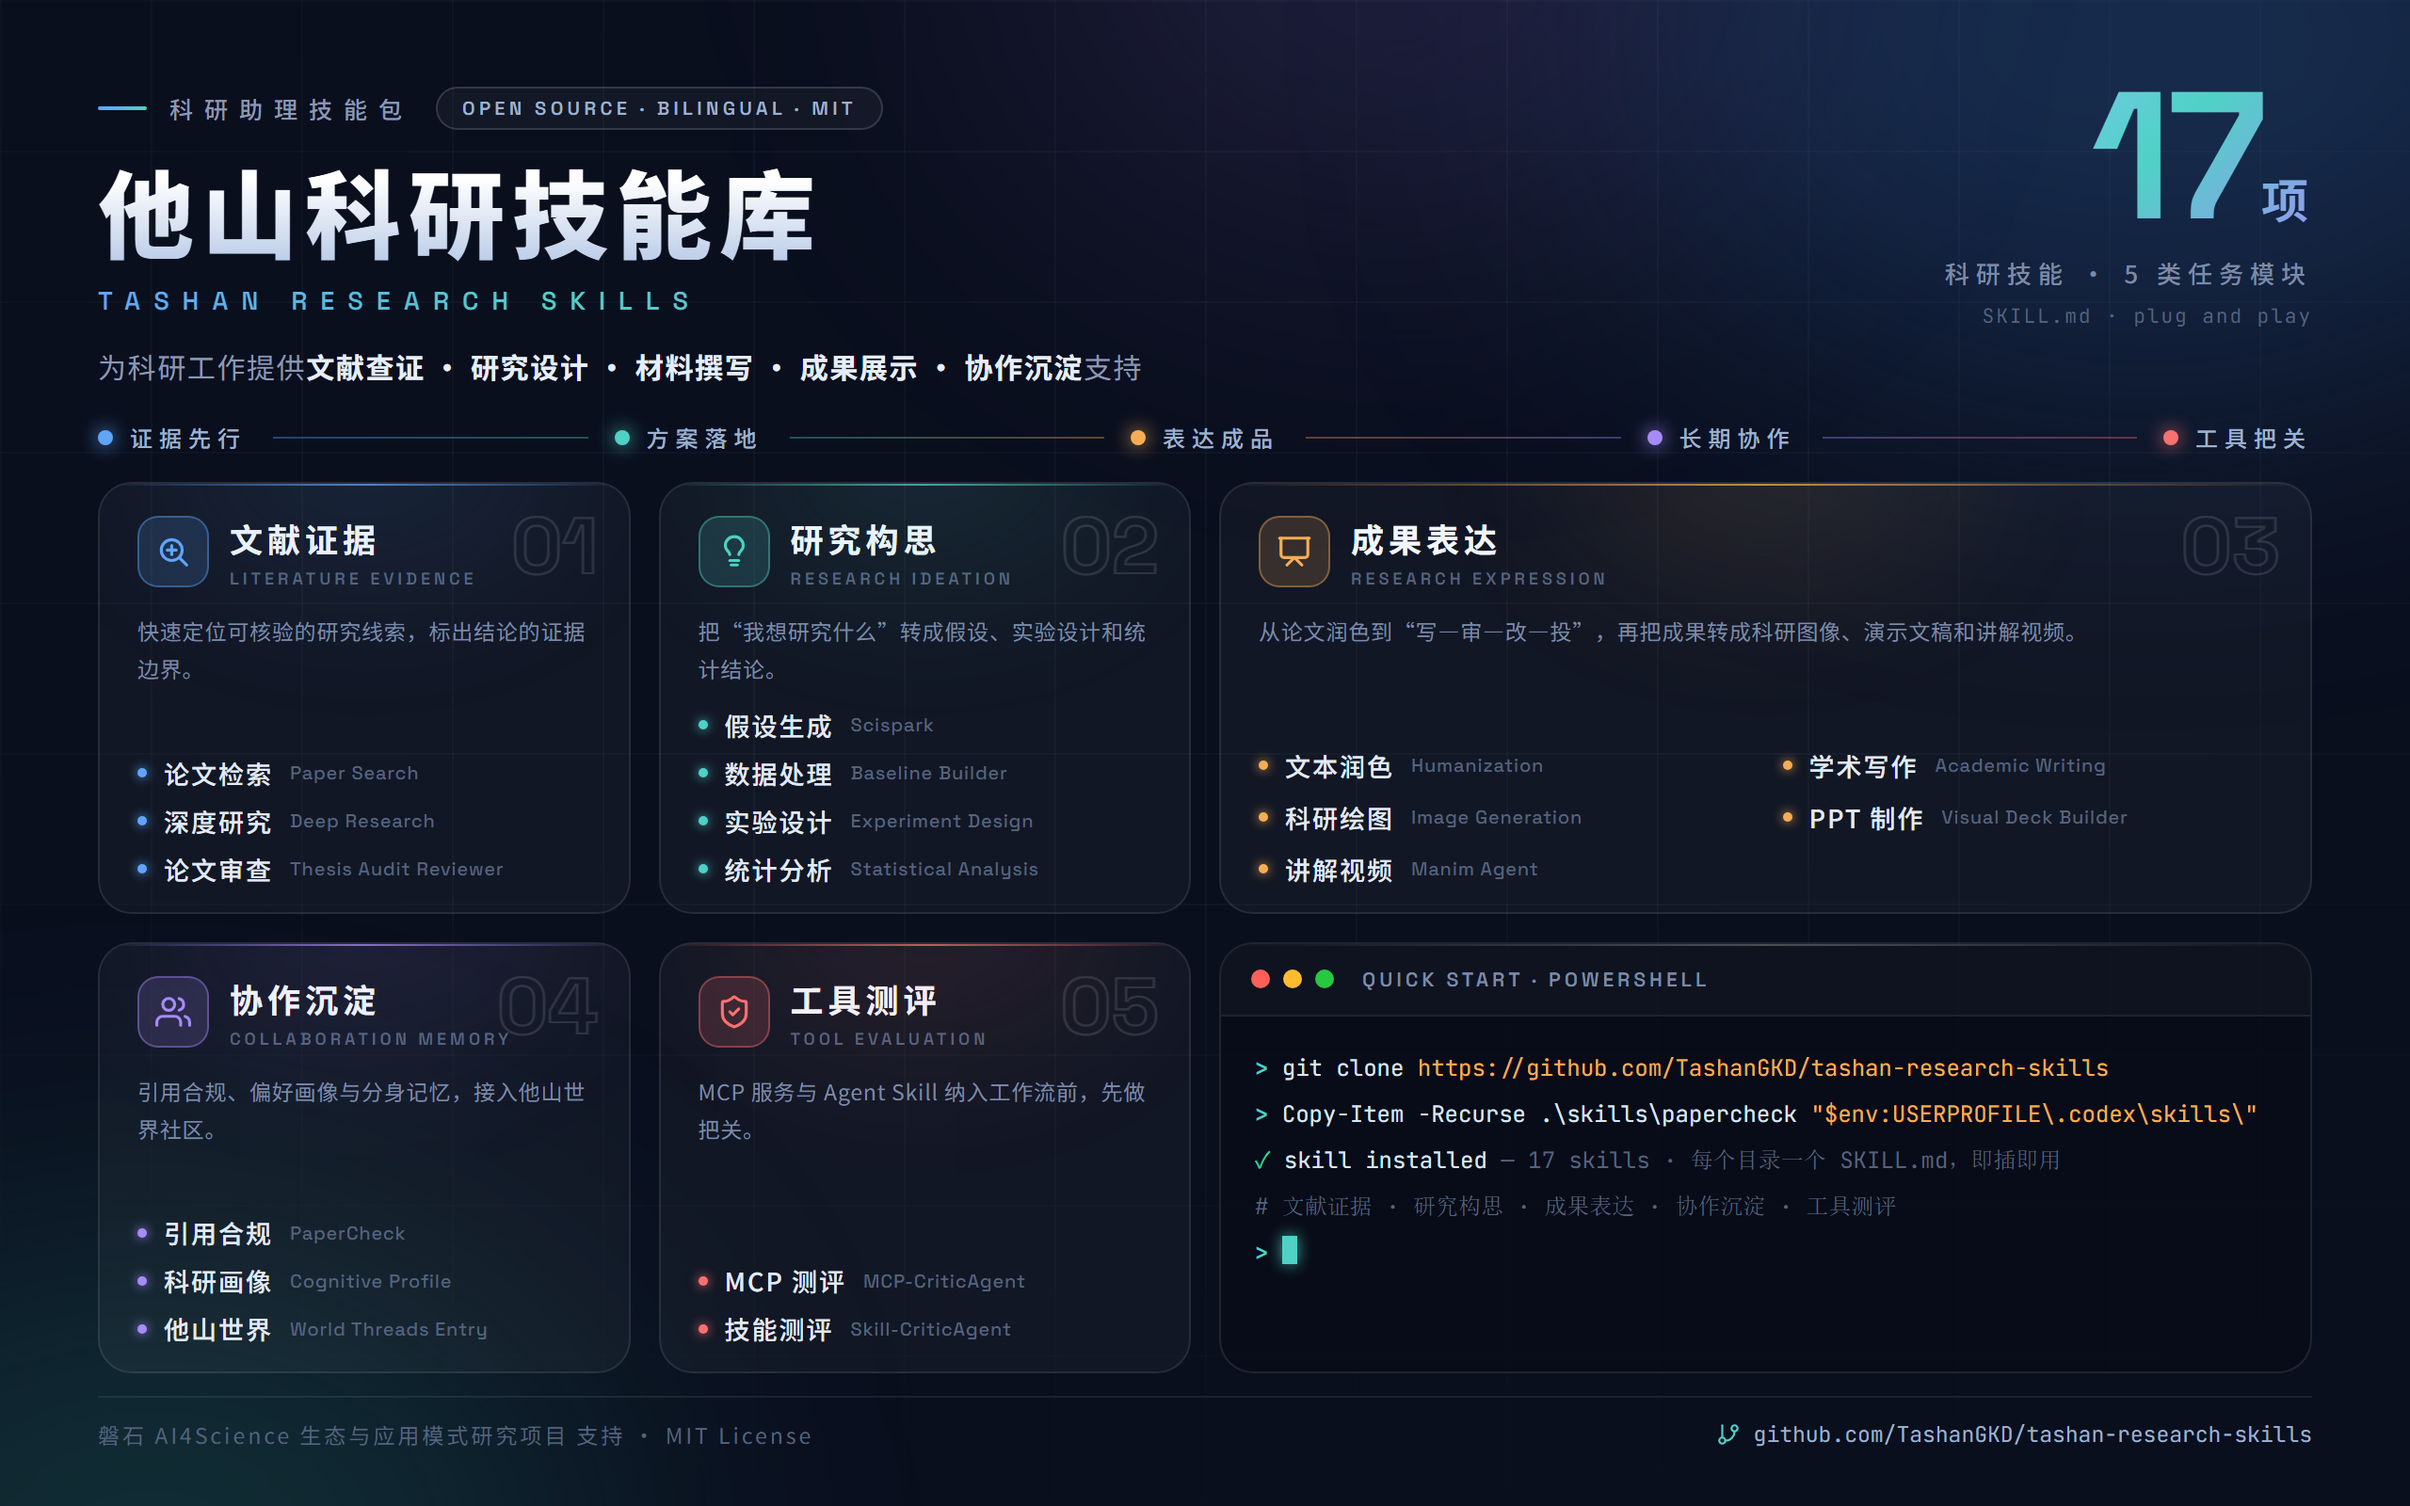
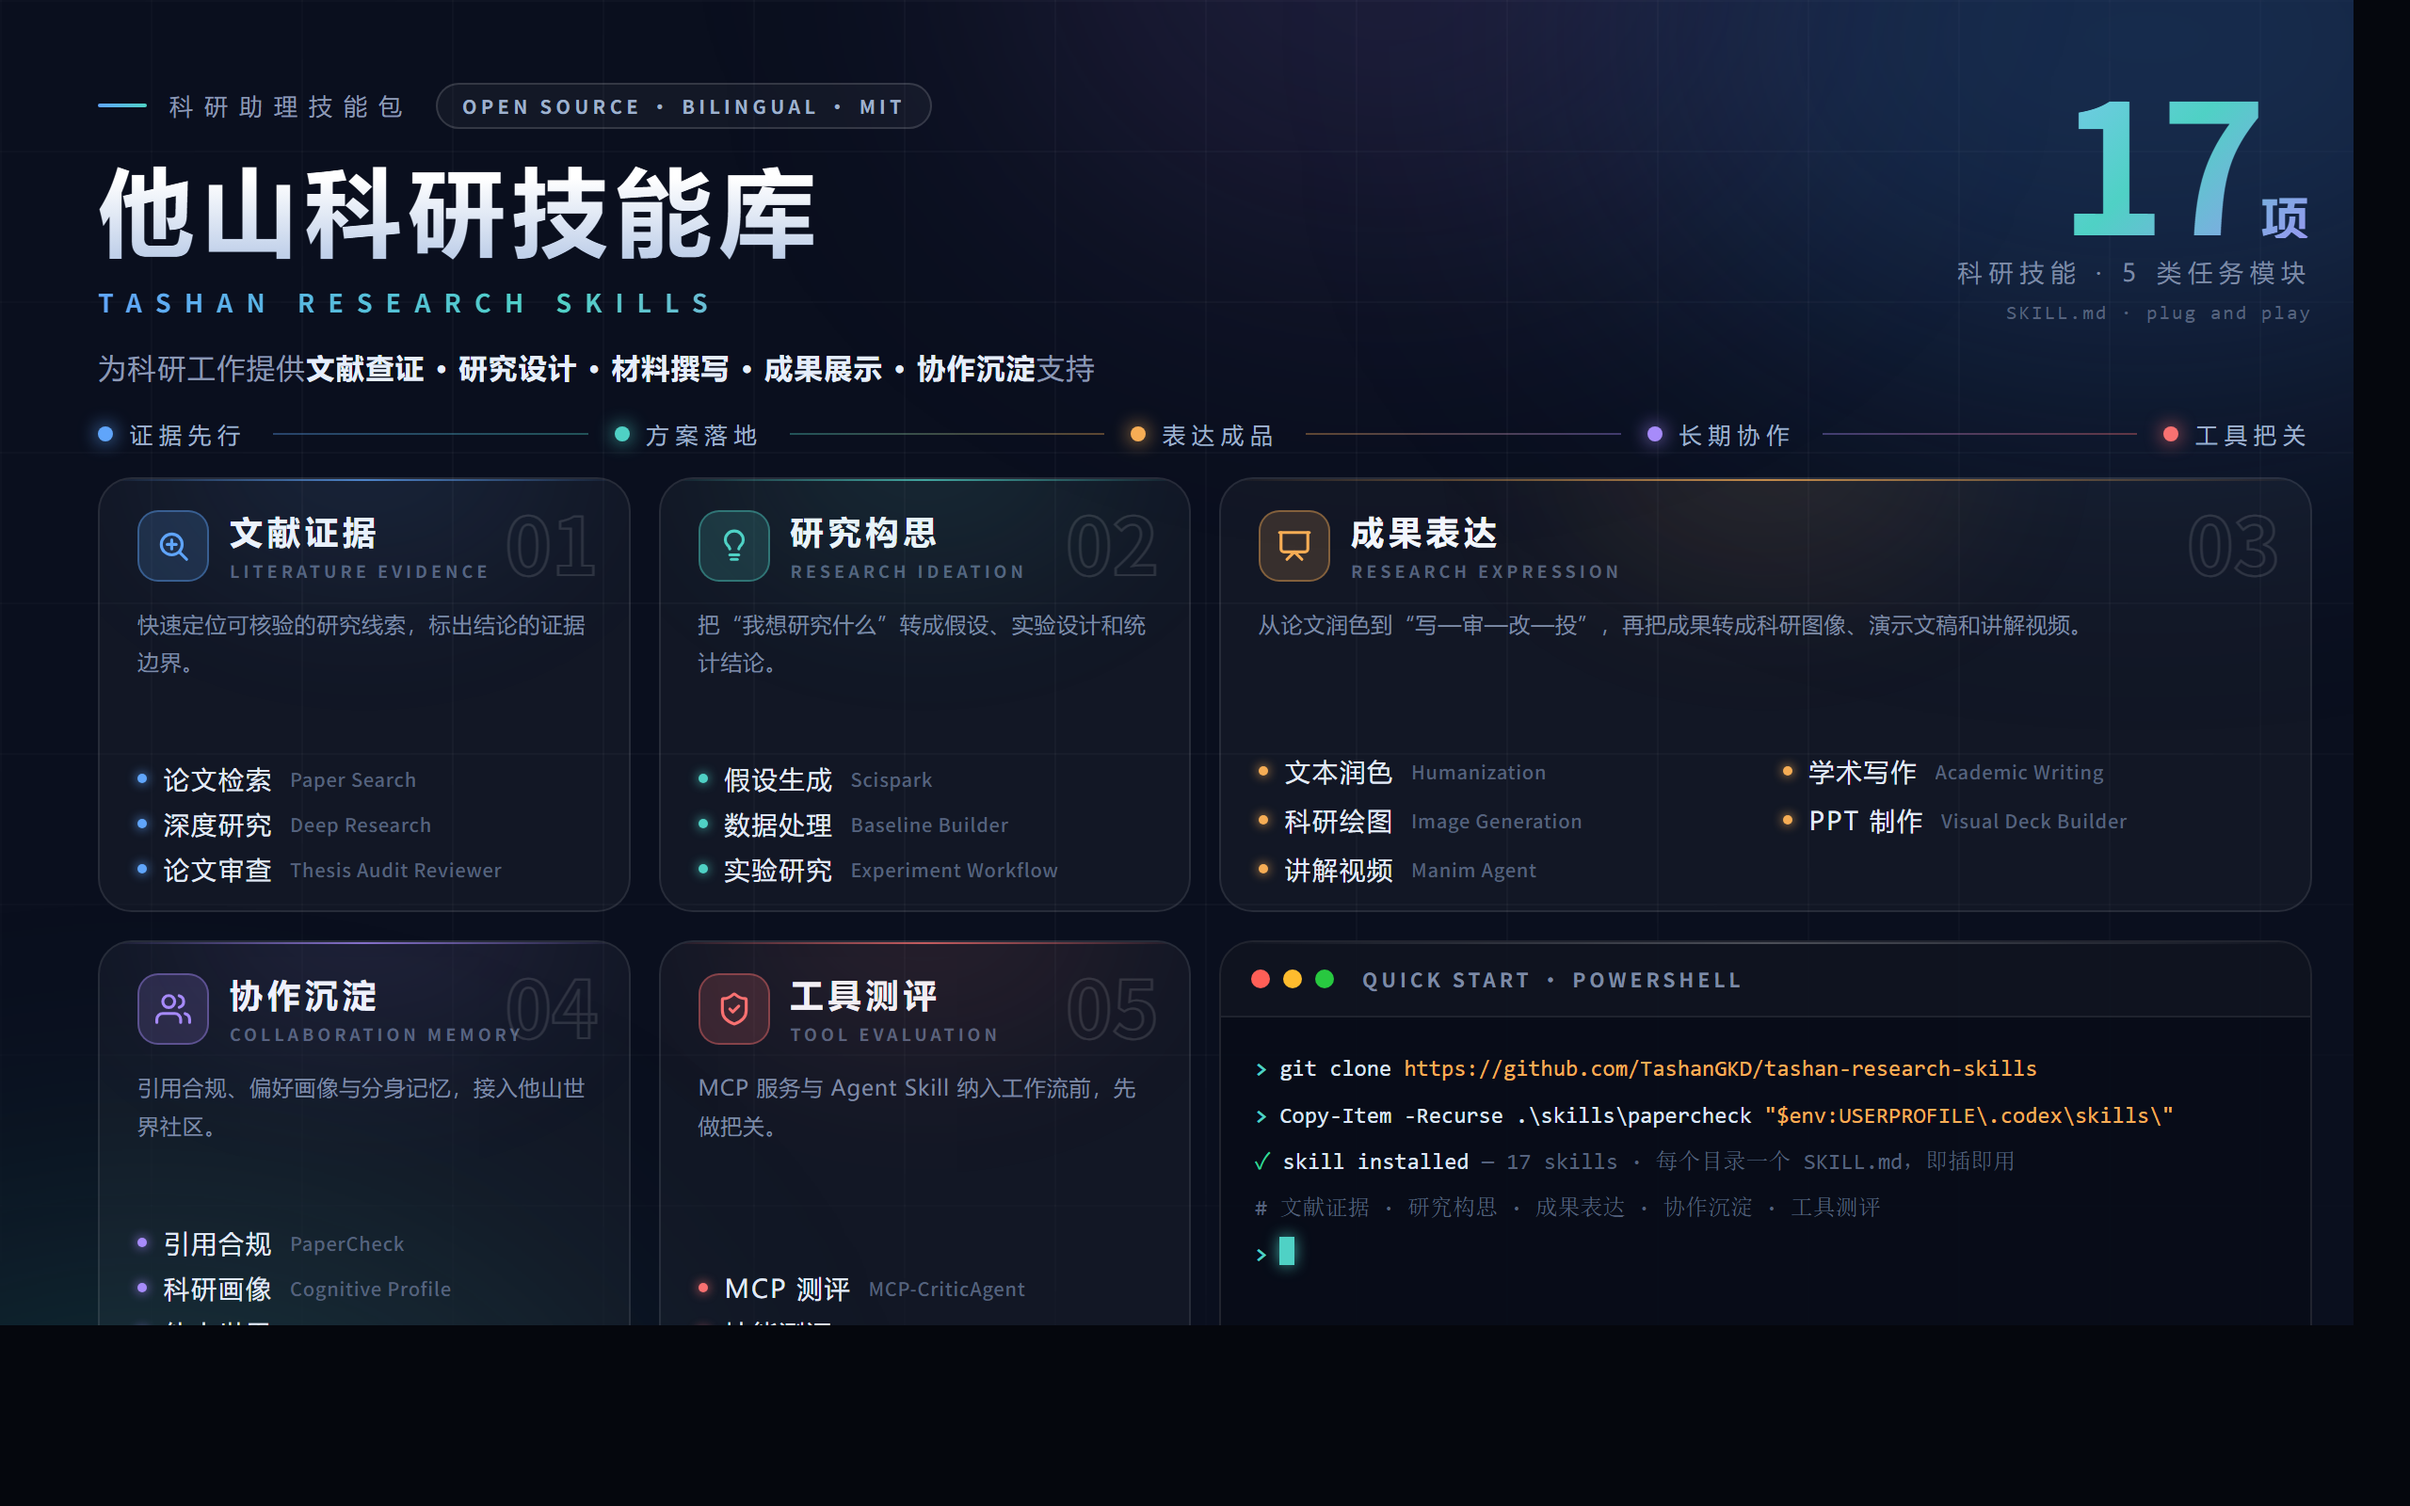
refactor(experiment-design): merge statistical analysis workflow

diff --git a/assets/research-skills-overview.html b/assets/research-skills-overview.html
@@ -234,8 +234,7 @@
       <div class="slist">
         <div class="sk"><span class="d"></span><span class="zh">假设生成</span><span class="en">Scispark</span></div>
         <div class="sk"><span class="d"></span><span class="zh">数据处理</span><span class="en">Baseline Builder</span></div>
-        <div class="sk"><span class="d"></span><span class="zh">实验设计</span><span class="en">Experiment Design</span></div>
-        <div class="sk"><span class="d"></span><span class="zh">统计分析</span><span class="en">Statistical Analysis</span></div>
+        <div class="sk"><span class="d"></span><span class="zh">实验研究</span><span class="en">Experiment Workflow</span></div>
       </div>
     </div>
 

diff --git a/README.en.md b/README.en.md
@@ -41,8 +41,7 @@ The project is supported by the **Panshi AI4Science Ecosystem and Application Mo
 | --- | --- | --- |
 | Scispark | [`skills/scispark`](skills/scispark/SKILL.md) | Generate evidence-tracked research ideas and testable hypotheses from papers or keywords. |
 | Research Baseline Builder | [`skills/research-baseline-builder`](skills/research-baseline-builder/SKILL.md) | Translate a scientific question into data inputs, outputs, baselines, and metrics. |
-| Experiment Design | [`skills/experiment-design`](skills/experiment-design/SKILL.md) | Design statistically sound experiments before data collection: design types, randomization, sample size, power, and analysis plans. |
-| Statistical Analysis | [`skills/statistical-analysis`](skills/statistical-analysis/SKILL.md) | Run the locked analysis plan after data collection: tests, effect sizes, confidence intervals, assumption checks, and multiplicity correction. |
+| Experiment Design & Statistical Analysis | [`skills/experiment-design`](skills/experiment-design/SKILL.md) | Connect pre-collection design, randomization, sample size, power, and preregistration with post-collection confirmatory tests, effect sizes, confidence intervals, and multiplicity correction. |
 
 ### Research expression
 

diff --git a/README.md b/README.md
@@ -41,8 +41,7 @@
 | --- | --- | --- |
 | 假设生成 | [`skills/scispark`](skills/scispark/SKILL.md) | 基于关键词或论文集合生成带证据追踪的研究想法、假设和机制线索。 |
 | 数据处理 | [`skills/research-baseline-builder`](skills/research-baseline-builder/SKILL.md) | 把科研问题拆成可处理的数据任务，明确输入、输出、baseline 和评估指标。 |
-| 实验设计 | [`skills/experiment-design`](skills/experiment-design/SKILL.md) | 在采集数据之前完成研究设计：设计类型、随机化、样本量、统计功效和分析计划。 |
-| 统计分析 | [`skills/statistical-analysis`](skills/statistical-analysis/SKILL.md) | 数据采集后按分析计划执行验证性统计：检验、效应量、置信区间、前提检查和多重比较校正。 |
+| 实验设计与统计分析 | [`skills/experiment-design`](skills/experiment-design/SKILL.md) | 连通采集前的设计、随机化、样本量、功效与预注册，以及采集后的验证性检验、效应量、置信区间和多重校正。 |
 
 ### 成果表达
 

diff --git a/docs/skill-package-overview.md b/docs/skill-package-overview.md
@@ -28,8 +28,7 @@
 | --- | --- | --- |
 | 假设生成 | [`skills/scispark`](../skills/scispark/SKILL.md) | 基于关键词或论文集合生成研究假设、机制线索和初步方案。 |
 | 数据处理 | [`skills/research-baseline-builder`](../skills/research-baseline-builder/SKILL.md) | 把科研问题拆成可处理的数据任务，明确输入、输出和评估指标。 |
-| 实验设计 | [`skills/experiment-design`](../skills/experiment-design/SKILL.md) | 在采集数据之前完成研究设计：设计类型、随机化、样本量、统计功效和分析计划。 |
-| 统计分析 | [`skills/statistical-analysis`](../skills/statistical-analysis/SKILL.md) | 数据采集后按分析计划执行验证性统计：检验、效应量、置信区间、前提检查和多重比较校正。 |
+| 实验设计与统计分析 | [`skills/experiment-design`](../skills/experiment-design/SKILL.md) | 连通采集前的设计、随机化、样本量、功效与预注册，以及采集后的验证性检验、效应量、置信区间和多重校正。 |
 
 ### 成果表达
 

diff --git a/skills/README.md b/skills/README.md
@@ -10,8 +10,7 @@ Each folder contains one skill entrypoint named `SKILL.md`.
 | [`thesis-audit-reviewer`](thesis-audit-reviewer/SKILL.md) | Thesis Audit Reviewer | Literature evidence |
 | [`scispark`](scispark/SKILL.md) | Scispark | Research ideation |
 | [`research-baseline-builder`](research-baseline-builder/SKILL.md) | Research Baseline Builder | Research ideation |
-| [`experiment-design`](experiment-design/SKILL.md) | Experiment Design | Research ideation |
-| [`statistical-analysis`](statistical-analysis/SKILL.md) | Statistical Analysis | Research ideation |
+| [`experiment-design`](experiment-design/SKILL.md) | Experiment Design & Statistical Analysis | Research ideation |
 | [`scientific-humanization`](scientific-humanization/SKILL.md) | Scientific Humanization | Research expression |
 | [`academic-writing`](academic-writing/SKILL.md) | Academic Writing | Research expression |
 | [`giiisp-scientific-image-generation`](giiisp-scientific-image-generation/SKILL.md) | Scientific Image Generation | Research expression |

diff --git a/skills/experiment-design/README.md b/skills/experiment-design/README.md
@@ -2,7 +2,7 @@
 
 面向科研工作的 agent skills：
 
-- **experiment-design（实验设计）**：采集数据前的研究设计、随机化、样本量/统计功效、DOE；附确定性脚本。
+- **experiment-design（实验设计与统计分析）**：覆盖采集前的设计、随机化、样本量/功效、DOE 和预注册，以及采集后按计划执行的验证性统计。
 
 ## 使用
 
